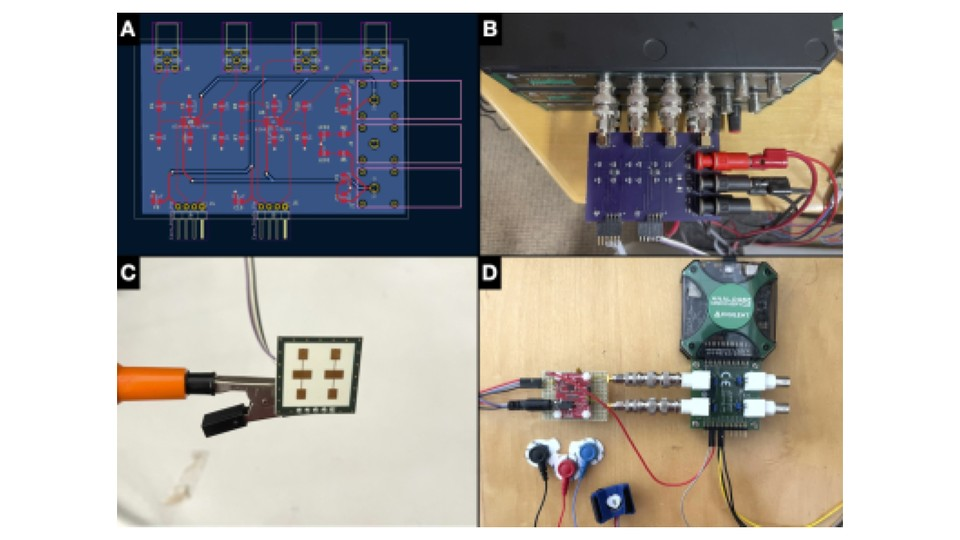
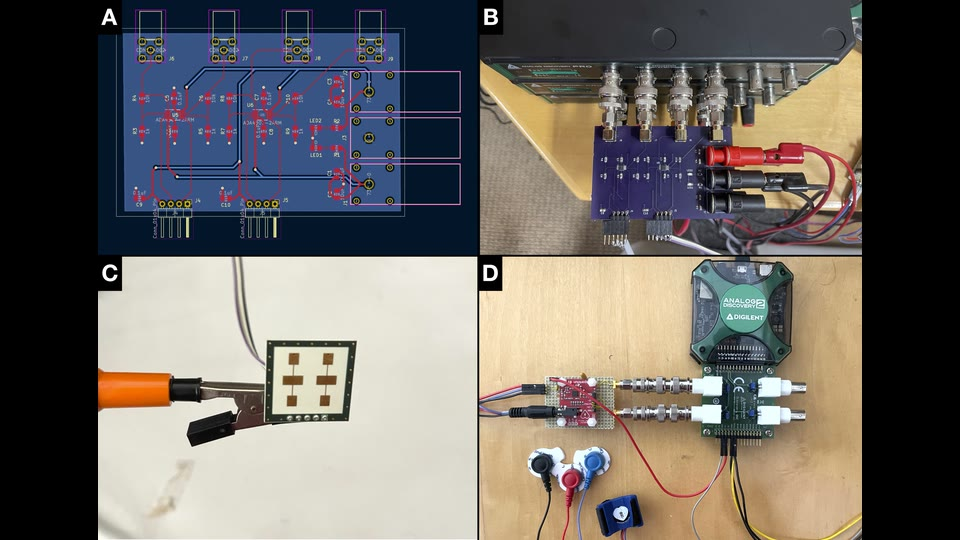
Use ISMRM figure thumbnail; sharpen internship callout

diff --git a/_pages/about.md b/_pages/about.md
@@ -55,7 +55,7 @@ Hi! I'm Hemal, a senior at Stanford studying Electrical Engineering. I'm an unde
 
 I'm interested in robotics, simulation, and learning for perception and control. I enjoy working on problems at the intersection of research and engineering: developing new methods, building end-to-end systems, and testing them on real hardware.
 
-<p class="callout">Looking for Summer 2027 research/engineering opportunities in Robotics and Physical AI.</p>
+<p class="callout">Looking for Summer 2027 internships in Robotics and Physical AI.</p>
 
 <p class="links">
   <a href="https://www.linkedin.com/in/hemalarora/">LinkedIn</a>&emsp;
